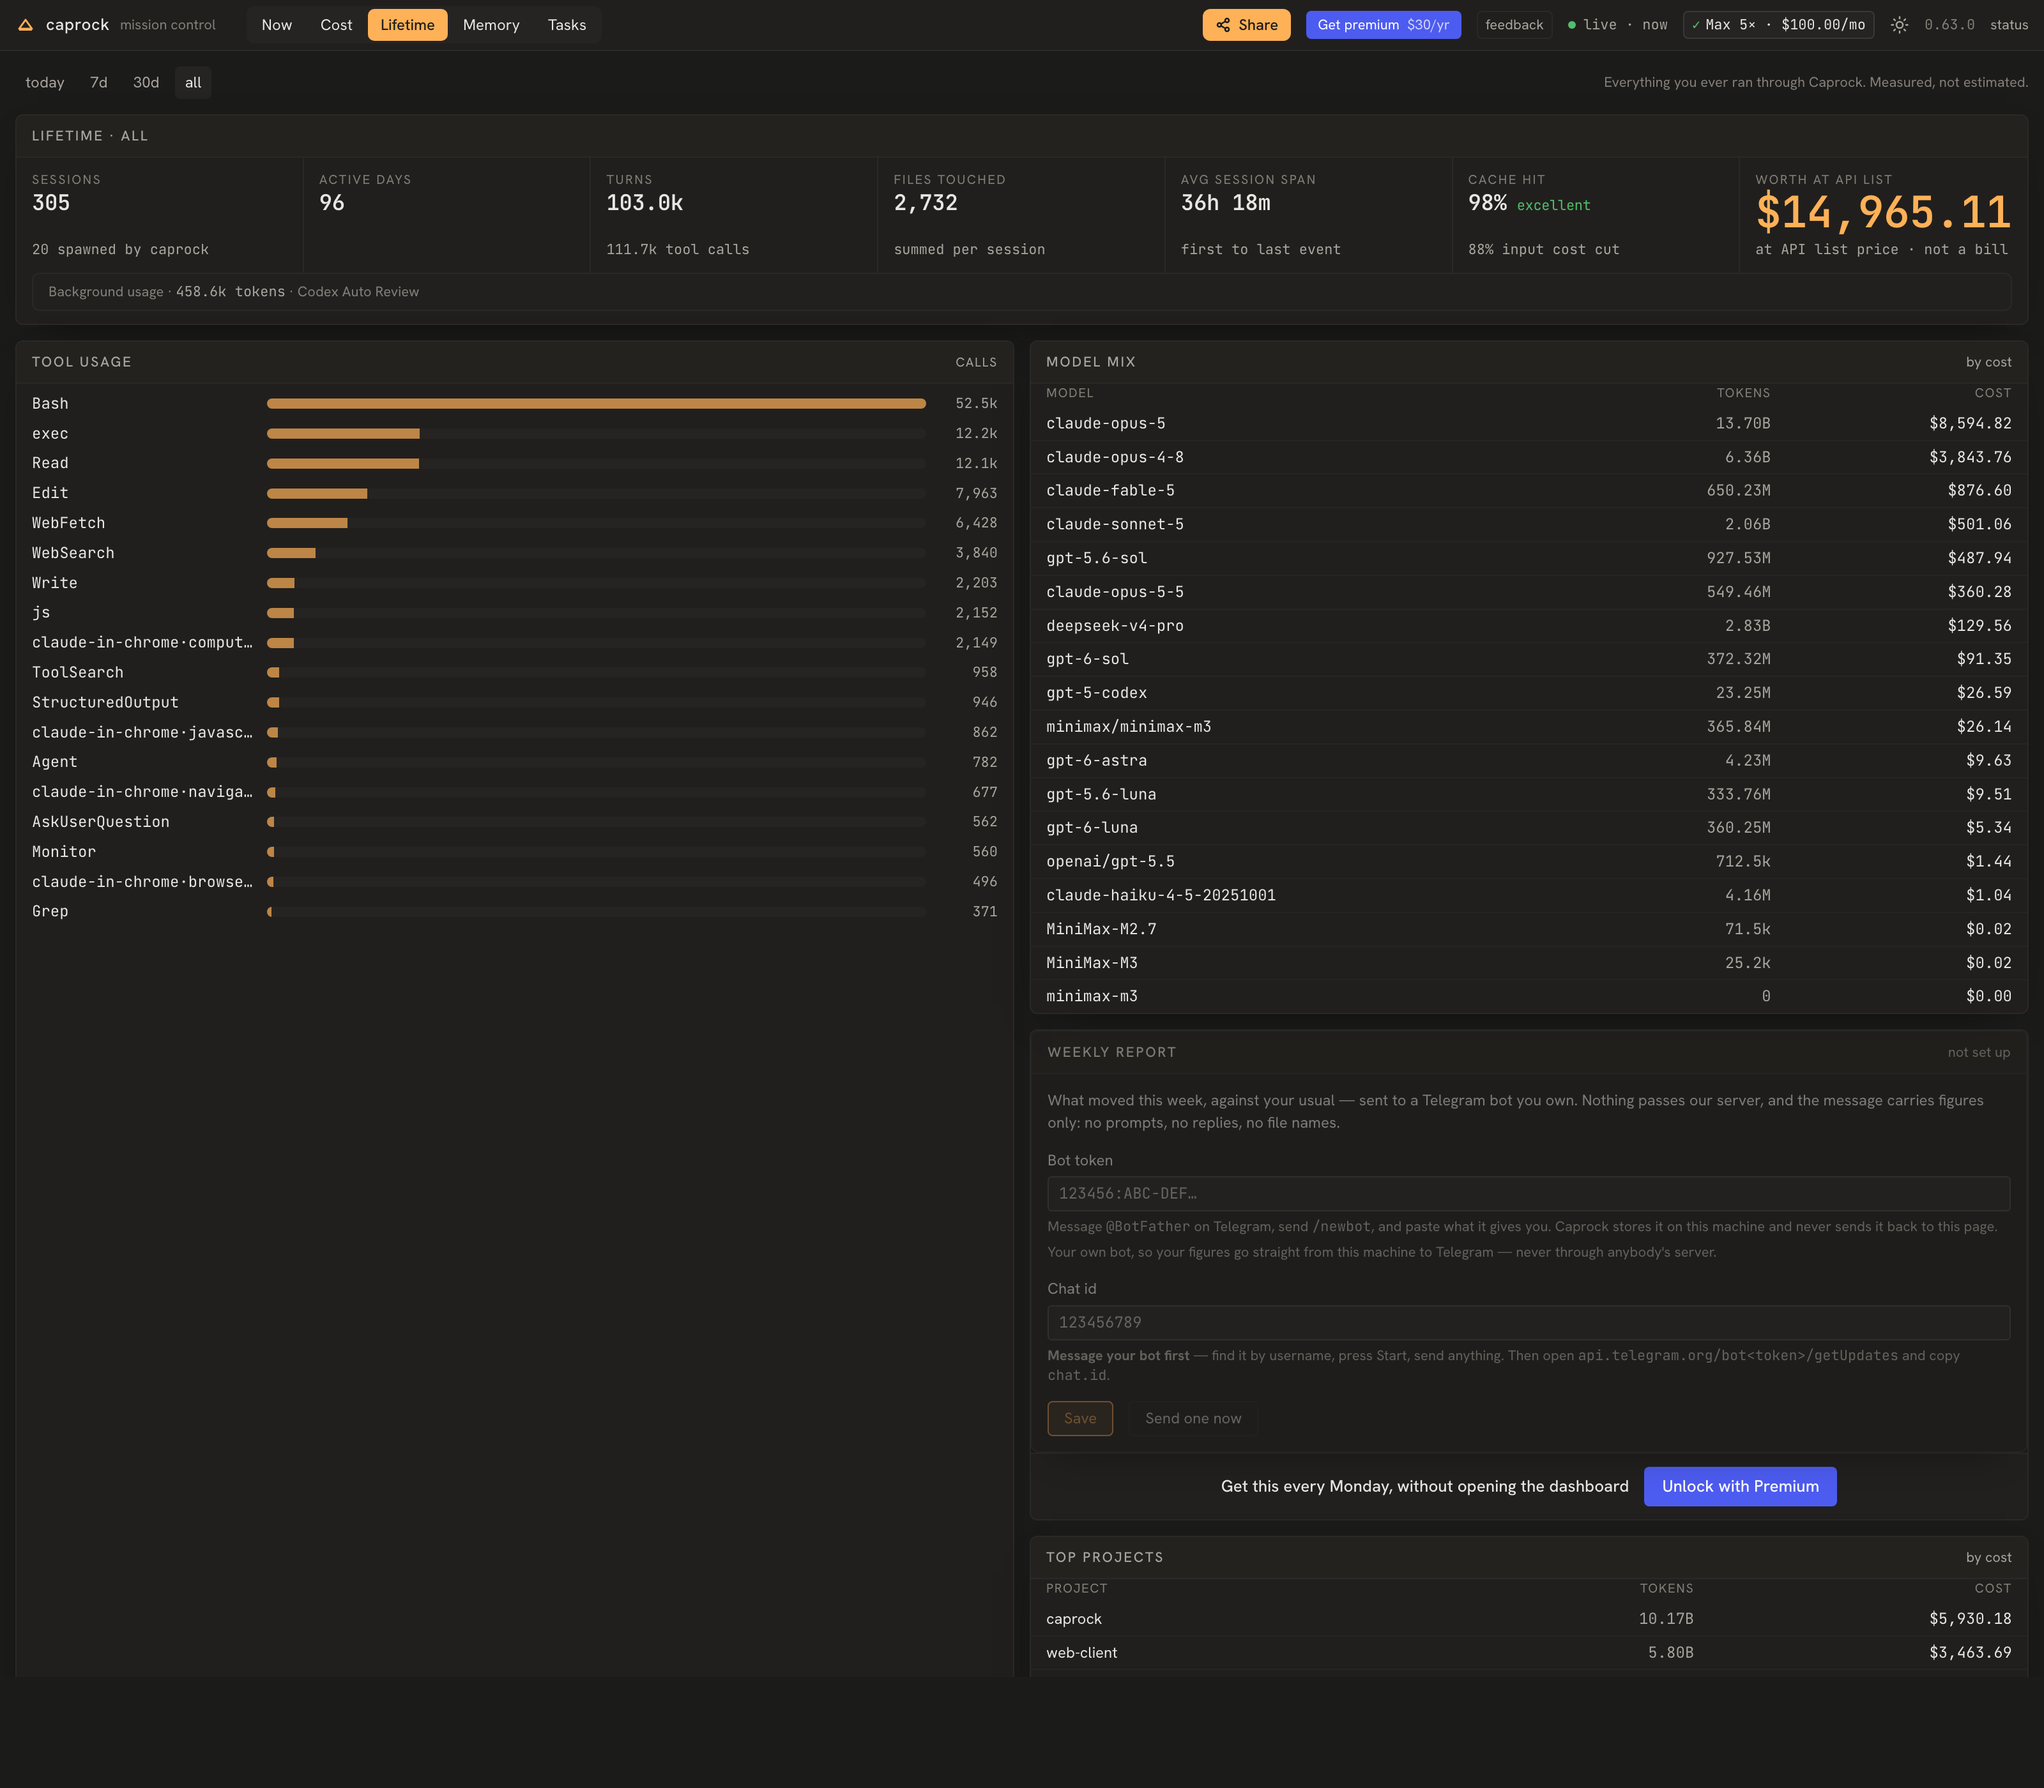
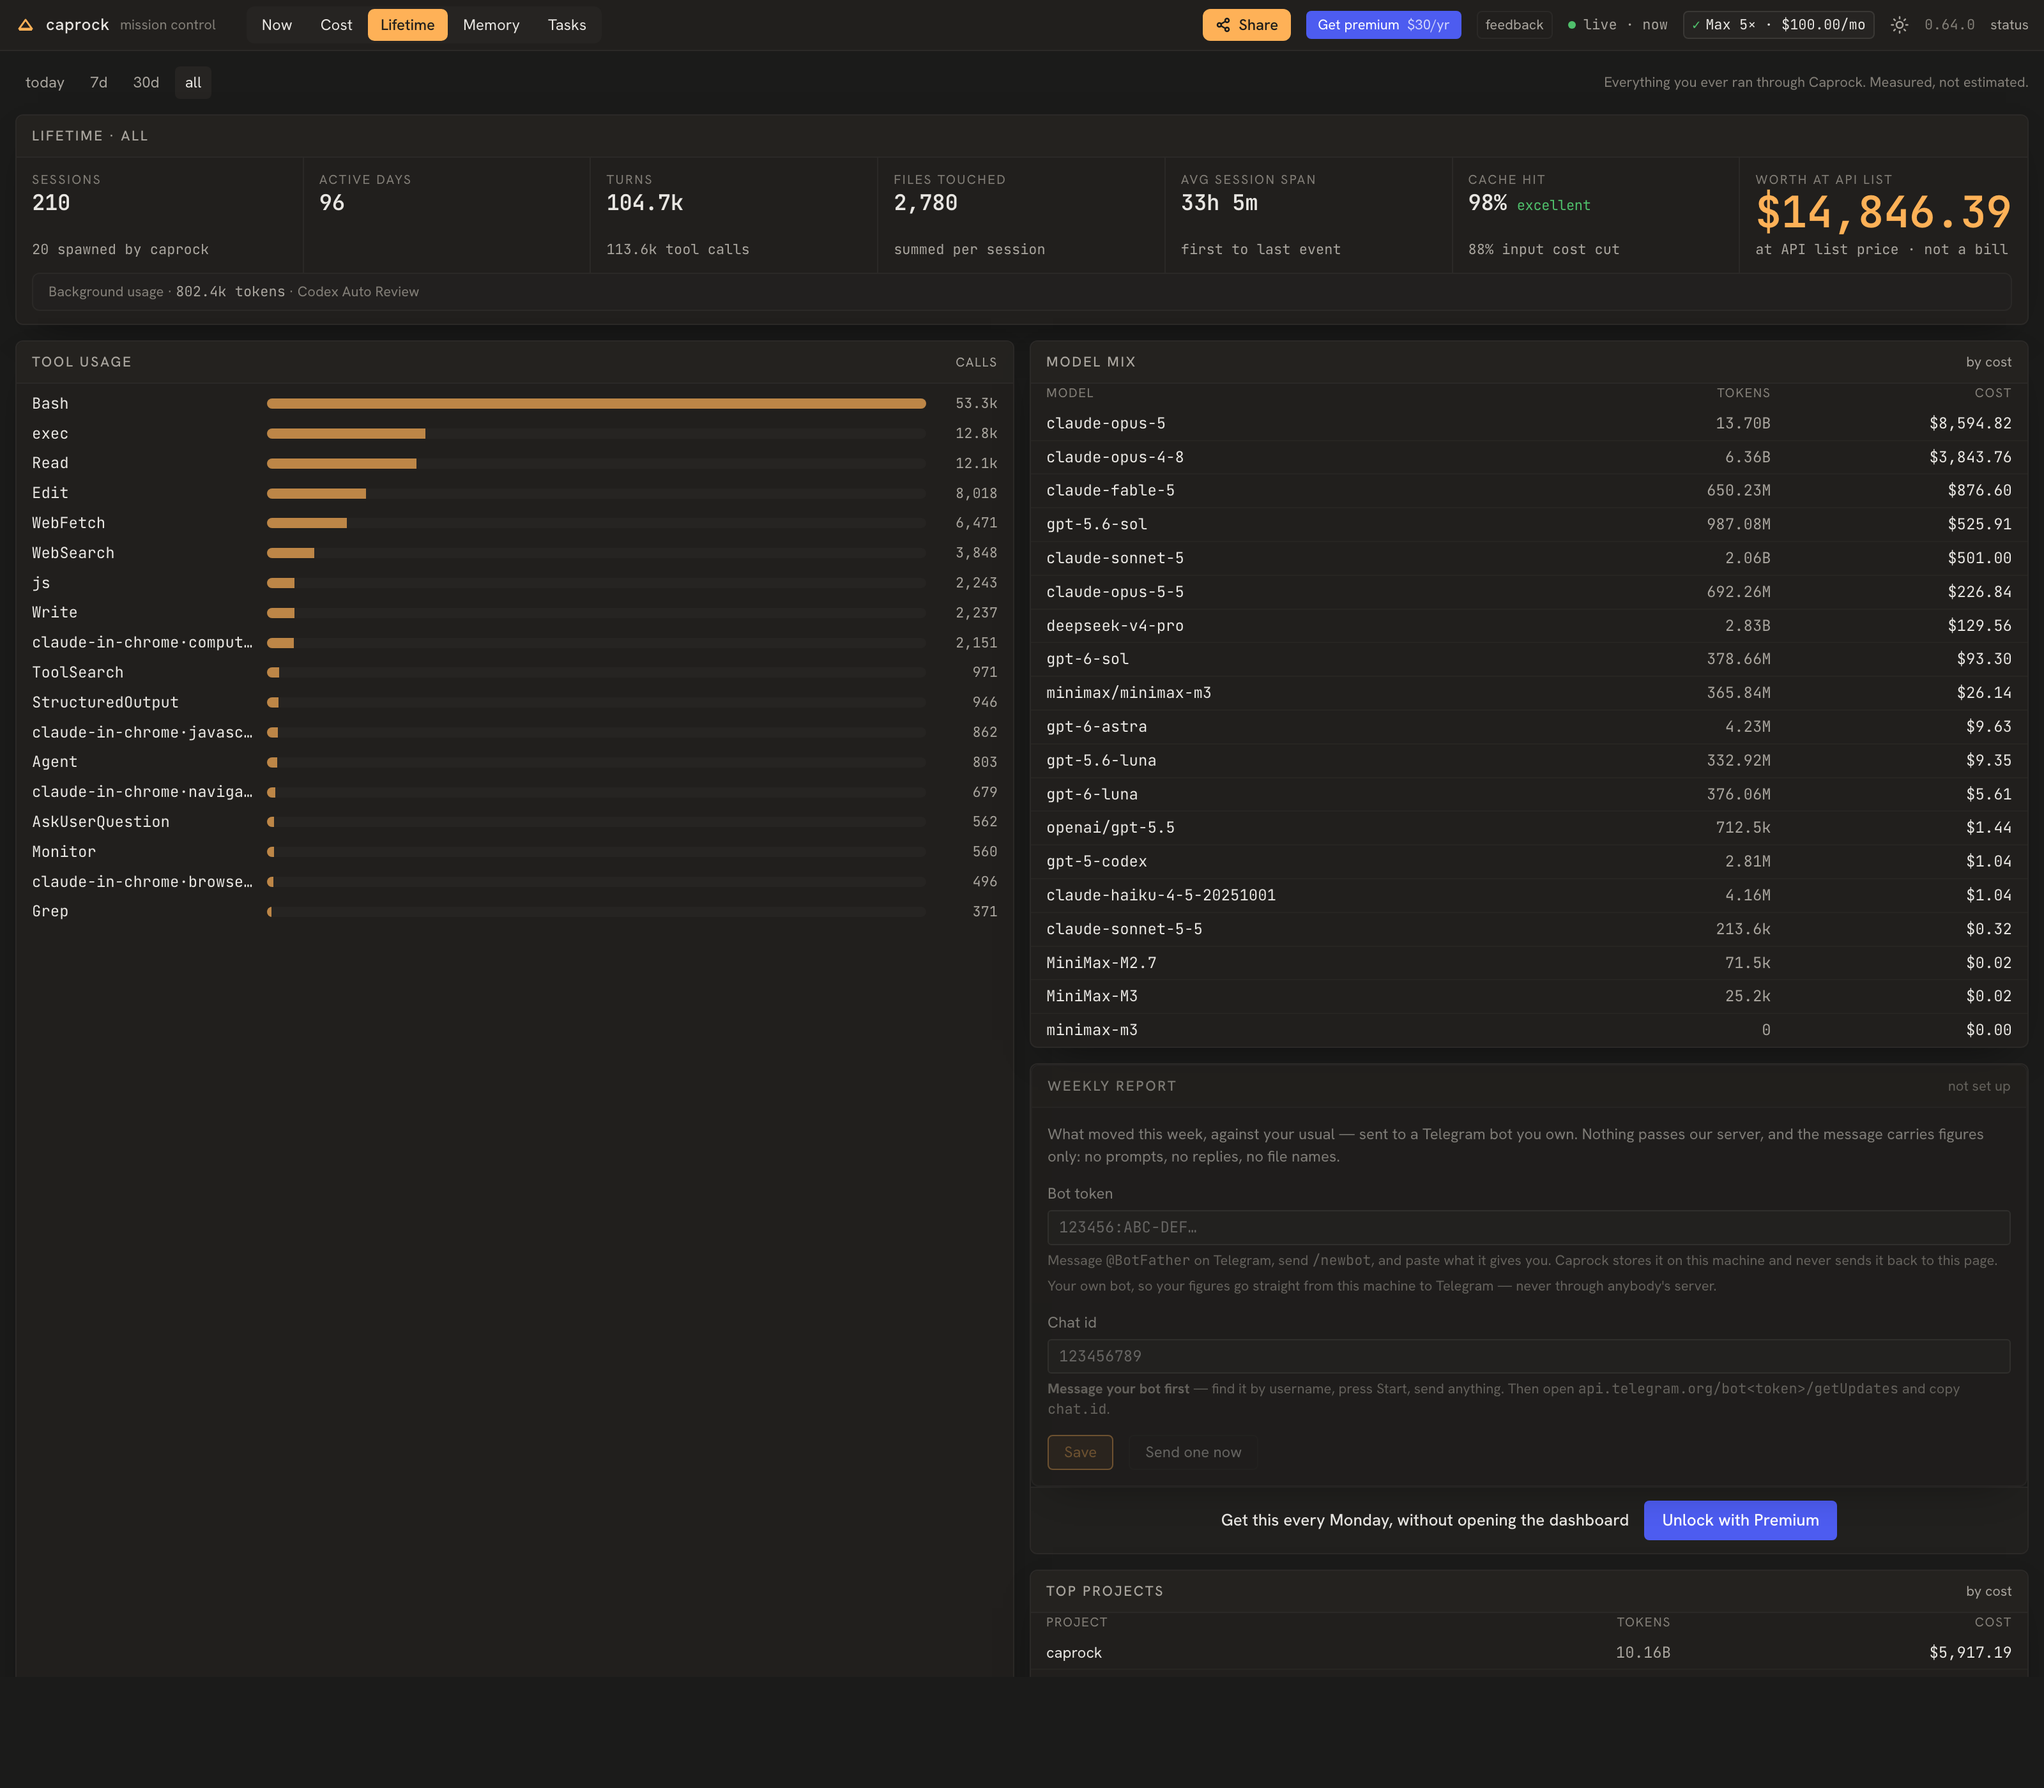
shots/v0.64.0 (#130)
* chore(shots): search Memory for an English phrase so the capture shows no working notes

* docs(shots): refresh the dashboard screenshots

Taken against a copy of a real database, with project names and paths
scrubbed by scripts/shots.py.

Claude-Session: https://claude.ai/code/session_01DR8fggA2LRHcjNWUsqtDcF

diff --git a/scripts/shots.py b/scripts/shots.py
@@ -278,7 +278,7 @@ ACTIONS = {
         const i = document.querySelector('input[aria-label^="Search Claude"]');
         if (!i) return false;
         const set = Object.getOwnPropertyDescriptor(HTMLInputElement.prototype, 'value').set;
-        set.call(i, 'model id');
+        set.call(i, 'the bug');
         i.dispatchEvent(new Event('input', { bubbles: true }));
         i.form.requestSubmit();
         return true;
